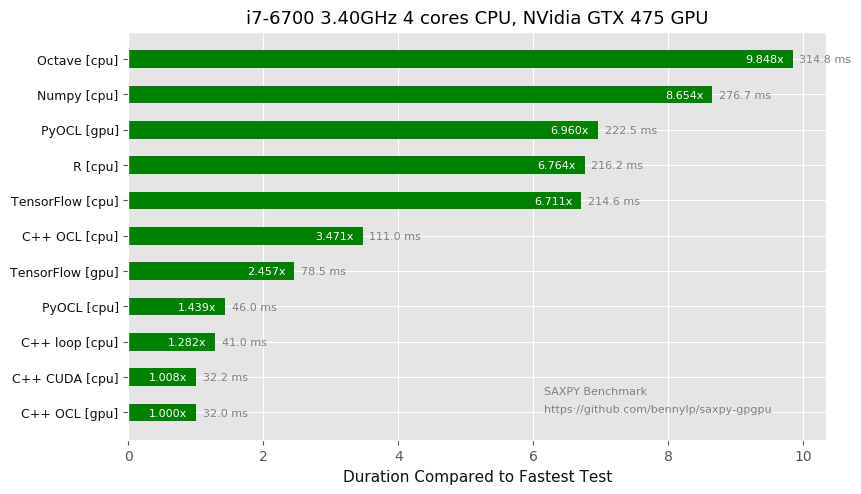
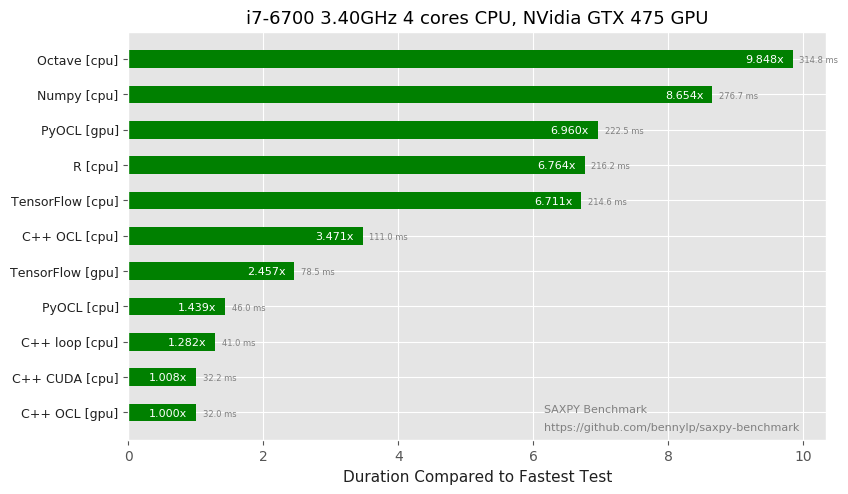
Small correction in R script and tweak chart generation

diff --git a/results/create_charts.py b/results/create_charts.py
@@ -93,17 +93,17 @@ def create_chart(spec, output_md, use_rel=True):
     for i, v in enumerate(y):
         # ax.text(v, i, '%.3fx' % v)
         ax.text(max(0, v - 0.7), y_pos[i] + 0.03, '%.3fx' % v, fontdict={'size': 8}, color='w')
-        ax.text(v + 0.1, y_pos[i] + 0.03, '%.1f ms' % m[i], fontdict={'size': 8}, color='grey')
+        ax.text(v + 0.1, y_pos[i] + 0.03, '%.1f ms' % m[i], fontdict={'size': 6}, color='grey')
 
-    ax.text(y[0] * 5 / 8, y_pos[-1] - 0.15, 'SAXPY Benchmark',
+    ax.text(y[0] * 5 / 8, y_pos[-1] + 0.15 - 0.15, 'SAXPY Benchmark',
             fontdict={'size': 8}, color='grey')
-    ax.text(y[0] * 5 / 8, y_pos[-1], 'https://github.com/bennylp/saxpy-gpgpu',
+    ax.text(y[0] * 5 / 8, y_pos[-1] + 0.15 , 'https://github.com/bennylp/saxpy-benchmark',
             fontdict={'size': 8}, color='grey')
 
     ax.set_yticks(y_pos)
-    ax.set_yticklabels(tests, fontdict={'size': 9}, color="#101010")
+    ax.set_yticklabels(tests, fontdict={'size': 9}, color="#202020")
     ax.invert_yaxis()  # labels read top-to-bottom
-    ax.set_xlabel('Duration Compared to Fastest Test', fontdict={'size': 11}, color="#101010")
+    ax.set_xlabel('Duration Compared to Fastest Test', fontdict={'size': 11}, color="#202020")
     ax.set_title(spec['title'], fontdict={'size': 13})
 
     ax.grid(color='w')

diff --git a/README.md b/README.md
@@ -335,7 +335,7 @@ See [saxpy_tf.py](saxpy_tf.py).
 
 ### Installation
 
-I install `tensorflow-gpu` with `pip3`. See [TF installation instructions](https://www.tensorflow.org/install/)
+I installed `tensorflow-gpu` with `pip3`. See [TF installation instructions](https://www.tensorflow.org/install/)
 for more info.
 
 ### Running
@@ -399,7 +399,7 @@ R ([https://www.r-project.org/](https://www.r-project.org/)) is a free software 
 for statistical computing and graphics. In data science field, it is at least as popular, if not
 more, than Python/Numpy. It is said to be fast too. Let's see how it performs.
 
-Vector operations in R is also trivial, this is the whole code for our test:
+Vector operations in R is also trivial, this is the whole code for our test ([saxpy.R](saxpy.R)):
 ```r
 N <- 2 ^ 26
 cat("N:", N, "\n")
@@ -414,12 +414,12 @@ y <- array(YVAL, dim=c(N))
 
 t0 <- Sys.time()
 y <- y + x * AVAL
-diff = Sys.time() - t0
+diff <- Sys.time() - t0
 cat("Elapsed:", diff*1000, " ms\n")
 
 answer <- YVAL + AVAL * XVAL
-error = sum(abs(y - answer))
+error <- sum(abs(y - answer))
 cat("Error:", error, "\n")
 ```
 
-For the benchmark, I run `Rscript` with `--arch x64` argument.
+For the benchmark, run `Rscript` with `--arch x64` argument.

diff --git a/results/README.md b/results/README.md
@@ -10,18 +10,18 @@ file. Feel free to submit a result:
 When creating a CSV, please standardize the column names to the following, otherwise
 the CSV will be rejected by `create_charts.py`. The names are standardized in case we want to do
 some statistics with them in the future:
+- PyOCL [gpu]
+- C++ CUDA [cpu]
+- PyOCL [cpu]
 - C++ OCL [gpu]
+- R [cpu]
+- Octave [cpu]
+- Numpy [cpu]
+- C++ OCL [cpu]
+- Python loop [cpu]
 - C++ loop [cpu]
 - TensorFlow [cpu]
 - TensorFlow [gpu]
-- PyOCL [cpu]
-- Octave [cpu]
-- PyOCL [gpu]
-- Numpy [cpu]
-- Python loop [cpu]
-- C++ OCL [cpu]
-- C++ CUDA [cpu]
-- R [cpu]
 
 
 
